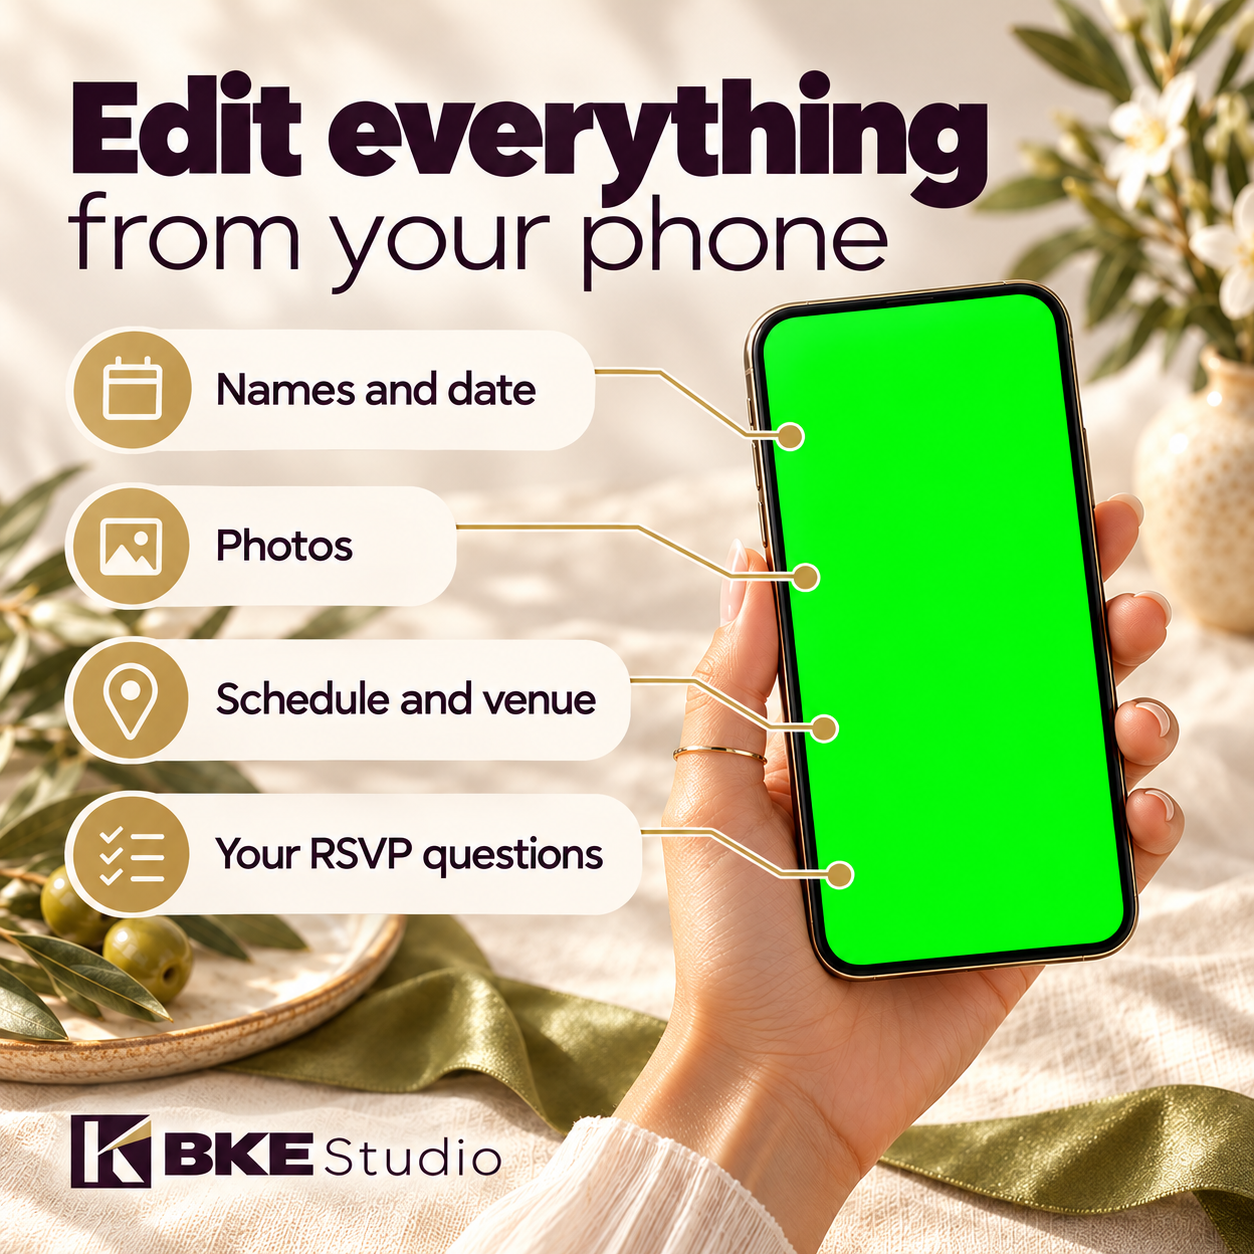
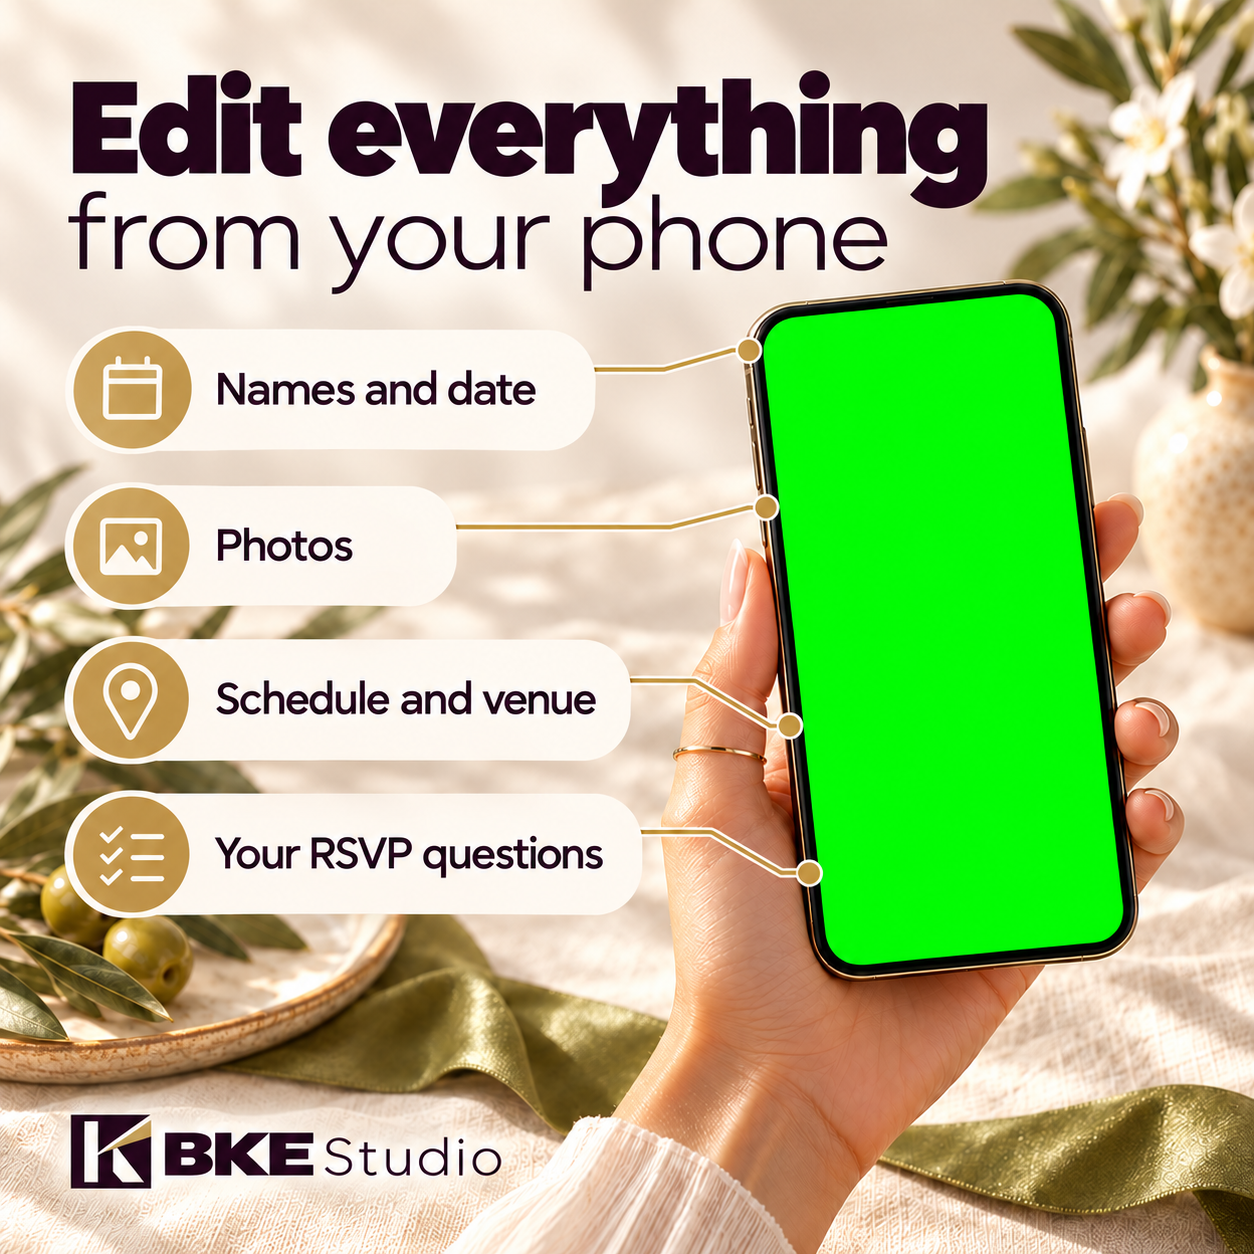
GM03: ara kayıt (LC 7/7)

diff --git a/gorevler/GM03-ilan-sablonu-gorsel.md b/gorevler/GM03-ilan-sablonu-gorsel.md
@@ -30,10 +30,14 @@ Tasarıma özel fotoğraf sahneleri G8NN'de (PAKET 3). Claude bu comp'lara göre
 - [ ] Sonuç'ta yeniden üretilenler ve emin olunmayan noktalar
 
 ## Sonuç
-- Kısım 1 ara kayıt: LC1–LC4 üretildi; comp metinleri ve BKE Studio harf harf kontrol edildi. LC1 ikinci denemesi `lc1_cover_v2.png` olarak saklandı; sade ad ilk Olive & Ivory sahnesidir.
-- Teknik kontrol henüz açık: imagegen 1254×1254 çıktı verdi; yeşil ekranlar piksel düzeyinde saf #00FF00 değil. LC2'de kamera adaları, LC4'te ekran içine uzanan bağlantı uçları var. 1024×1024 ve saf ekran için yalnız teknik boyut/renk düzeltmesi izni kullanıcıya soruldu; yanıt bekleniyor.
+- Kısım 1: LC1–LC7 üretildi ve Kaydet yollarına kondu: `brand/listing/comps/lc1_cover.png`, `lc2_pages.png`, `lc3_how.png`, `lc4_editor.png`, `lc5_rsvp.png`, `lc6_included.png`, `lc7_demo.png`. LS0 önce düz mesaj olarak paylaşıldı; marka panosu, yatay logo, cover_hand ve three_phones sohbete referans olarak yüklendi. Her üretimde marka panosu referans verildi.
+- Metinler, özellikle `BKE Studio`, her görselde harf harf kontrol edildi; harf hatası görülmedi. QR, web adresi ve ek UI metni yok. LC1/2/4/5/7 ekran sayıları sırasıyla 1/4/1/2/1; ekranlar birbirini örtmüyor, dört köşeleri görünür. LC3'te dört adım, LC6'da sekiz öğe var; bu iki comp'ta telefon yok.
+- Yeniden üretimler: LC1 `_v2`, `_v3` (ölçü/saf renk denemeleri; sade ad ilk Olive & Ivory sahnesi); LC2 `_v2`, `_v3` (kamera adalarını kaldırma; `_v3` sade ada seçildi); LC4 `_v2`, `_v3` (bağlantı uçlarını ekran dışındaki telefon çerçevesine taşıma; `_v3` sade ada seçildi). Ana LC prompt'ları aynen kullanıldı; teknik düzeltme denemelerine ortak brief'in ekran/ölçü koşulları ayrıca eklendi.
+- Açık teknik kabul sınırı: imagegen, açık 1024×1024 ve RGB (0,255,0) taleplerine rağmen 1254×1254 RGB PNG ve #00FF00'a yakın, piksel düzeyinde değişken yeşil verdi. Yedi sade dosyanın ölçüsü ve beş ekranlı comp'un piksel değerleri salt okunur kontrol edildi; 1024×1024 ve saf #00FF00 koşulları sağlanmadı. Kullanıcı yalnız imagegen kullanılmasını seçti; Python/Pillow veya başka araçla görsel değişikliği yapılmadı. Bu nedenle comp üretimi tamamlandı, teknik kabul tamamlanmadı.
+- Bu oturumda LI ikonları üretilmedi. Ek önizleme, metrik veya rapor dosyası oluşturulmadı; yazılan repo yolları yalnız `brand/listing/` ve bu görev dosyası. Durum kullanıcı talebiyle `alindi` kaldı.
 
 ## Günlük
 - 2026-10-14 açıldı (entegratör): kullanıcı isteği, ilan görselleri GPT tasarımı
 - 2026-10-14 alindi: gpt-marka — bu oturum yalnız kısım 1, LC1–LC7; LI ikonları sonraki oturuma kaldı.
 - 2026-10-14 ara kayıt: gpt-marka — LC 4/7 üretildi; harf kontrolleri geçti, teknik boyut/saf ekran düzeltmesi açık.
+- 2026-10-14 ara kayıt: gpt-marka — LC 7/7 üretildi; harf kontrolleri geçti, LC2/LC4 ekran bütünlüğü imagegen ile düzeltildi; 1024×1024/saf #00FF00 teknik kabul koşulları açık.
